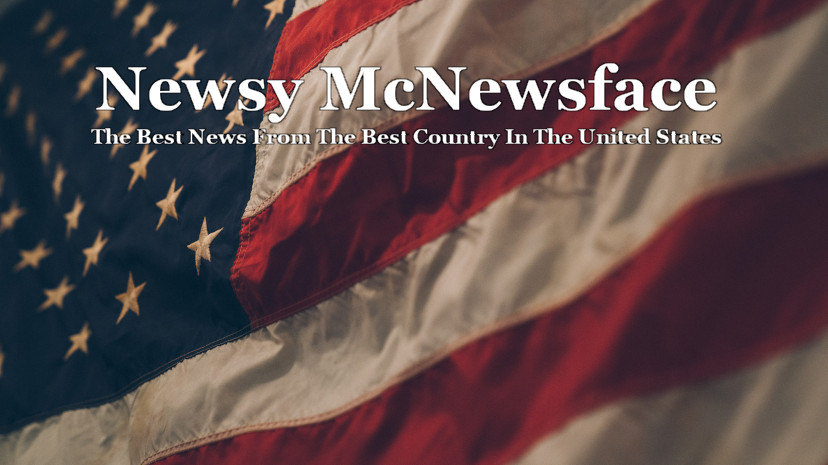
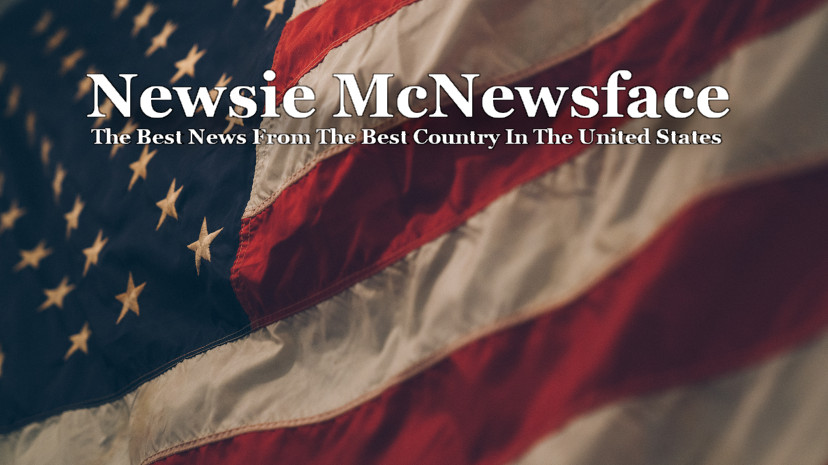
Change Newsy to Newsie to match domain

Changed region(s): [[0.0906, 0.1204, 0.9058, 0.3011]]

diff --git a/_includes/page_top.html b/_includes/page_top.html
@@ -32,7 +32,7 @@
   <meta property="og:url" content="{{ site.url }}{{ page.url }}" />
   <meta property="og:image" content="{{ site.url }}{{ imgsrc }}" />
   <meta property="og:description" content="{{ page.excerpt }}" />
-  <meta property="og:site_name" content="Newsy McNewsface" />
+  <meta property="og:site_name" content="Newsie McNewsface" />
 
   <!--<meta property="fb:admins" content="Facebook numberic ID" />-->
 

diff --git a/_includes/header.html b/_includes/header.html
@@ -1,7 +1,7 @@
 <div class="container" style="position:relative">
   <header class="blog-header py-3">
     <div class="text-center">
-      <a class="blog-header-logo" href="/">Newsy McNewsface</a>
+      <a class="blog-header-logo" href="/">Newsie McNewsface</a>
       <div style="padding-top:.5em;">
         <small>The Best News From The Best Country In The United States</small>
       </div>

diff --git a/index.html b/index.html
@@ -1,6 +1,7 @@
 ---
 title: Home
 layout: default
+excerpt: "Newsie McNewsface"
 ---
 {% include post_count.html %}
 {% include most_recent.html %}

diff --git a/_posts/2019-09-16-trump-tp.md b/_posts/2019-09-16-trump-tp.md
@@ -2,7 +2,7 @@
 layout: post
 title:  "Trump Accidentally Uses Regular Toilet Tissue Instead Of Gold Foil Sheets"
 category: "Goofy Shit"
-author: "Newsy McNewsface"
+author: "Newsie McNewsface"
 author_title: "Senior Enlightenment Correspondent"
 excerpt: "Screams were heard this morning from a toilet the President was using. After initial alarm, it was discovered that the President's usual supply of gold foil sheets had been forgotten, and the POTUS accidentally used regular toilet tissue."
 img: "smiling-toilet-tissue-dispenser.jpg"

diff --git a/_posts/_template.md b/_posts/_template.md
@@ -2,7 +2,7 @@
 layout: post
 title:  ""
 category: "Conservative Shit|Liberal Shit|Goofy Shit|Real Shit"
-author: "Newsy McNewsface"
+author: "Newsie McNewsface"
 author_title: "Senior Enlightenment Correspondent"
 excerpt: ""
 img: "default.jpg"

diff --git a/README.md b/README.md
@@ -1,4 +1,4 @@
-# Newsy McNewsface
+# Newsie McNewsface
 
 A website for total nonsense.
 
